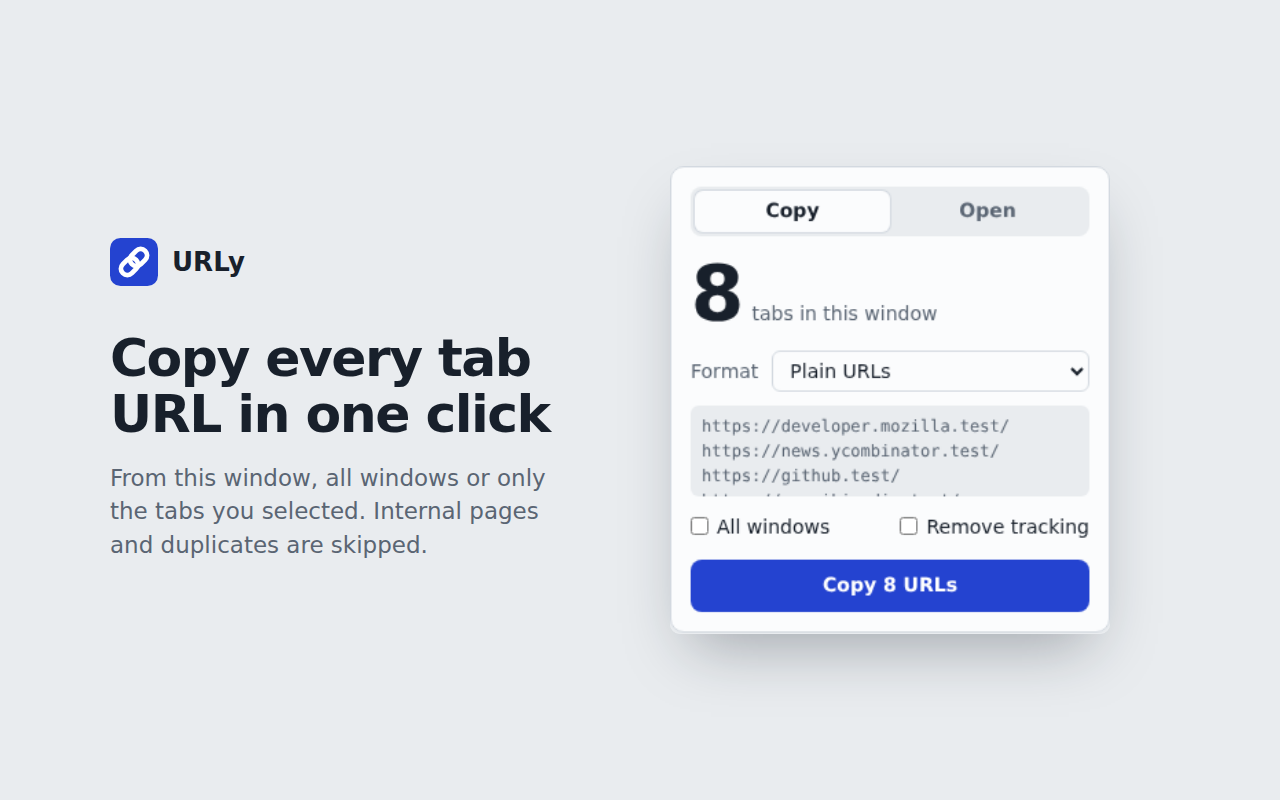
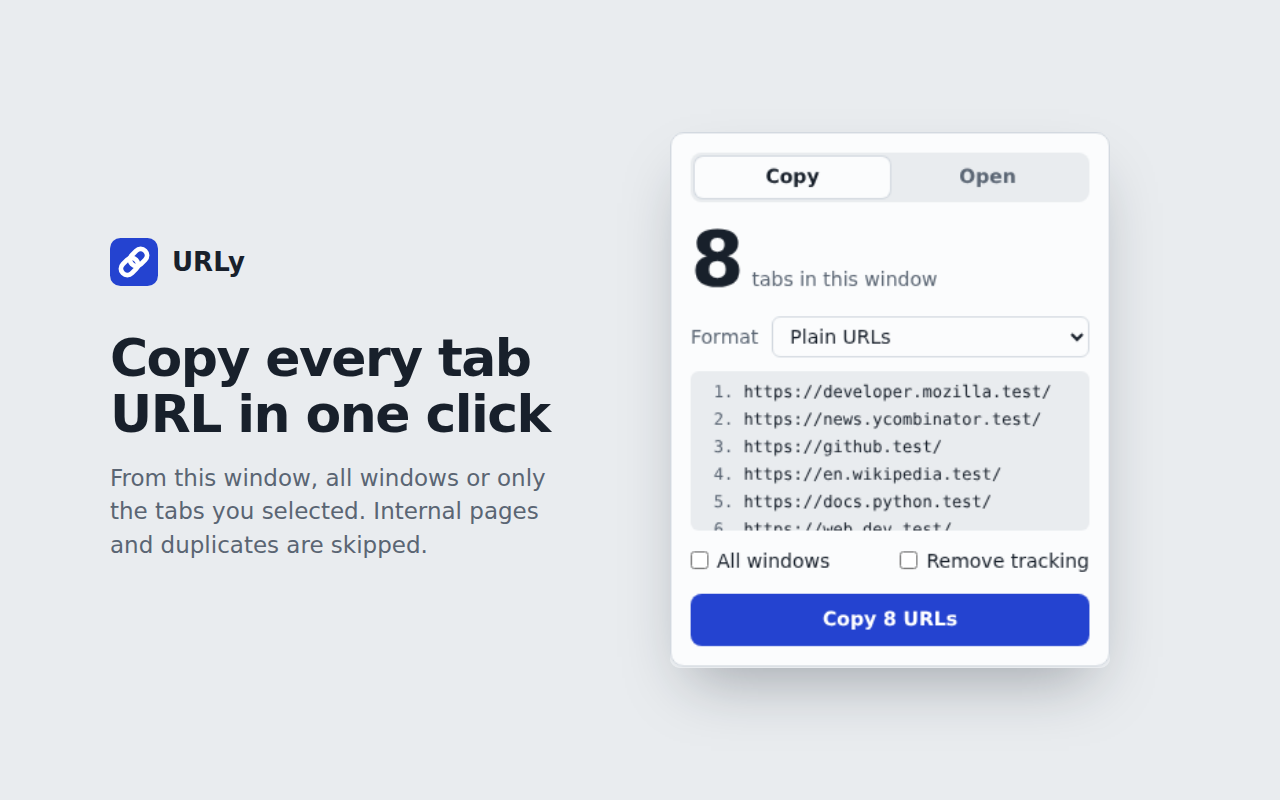
Number the copy preview per link and give it more room
The preview is now an ordered list with one entry per link, wraps long
URLs instead of scrolling sideways, is taller, and uses thin scrollbars.
JSON output now puts one link object per line.

diff --git a/src/lib/urls.ts b/src/lib/urls.ts
@@ -93,39 +93,54 @@ function fillTemplate(template: string, link: Link, index: number): string {
   );
 }
 
+// One string per link, so the popup can number them in its preview.
+export function formatEntries(
+  links: Link[],
+  format: CopyFormat,
+  template = DEFAULT_TEMPLATE,
+): string[] {
+  switch (format) {
+    case 'plain':
+      return links.map((link) => link.url);
+    case 'markdown':
+      return links.map(markdownLink);
+    case 'titled':
+      return links.map(({ title, url }) => `${title}\n${url}`);
+    case 'html':
+      return links.map(
+        ({ title, url }) =>
+          `<li><a href="${escapeHtml(url)}">${escapeHtml(title)}</a></li>`,
+      );
+    case 'csv':
+      return links.map(
+        ({ title, url }) => `${csvField(title)},${csvField(url)}`,
+      );
+    case 'json':
+      return links.map((link) => JSON.stringify(link));
+    case 'custom':
+      return links.map((link, index) => fillTemplate(template, link, index));
+  }
+}
+
 export function formatLinks(
   links: Link[],
   format: CopyFormat,
   template = DEFAULT_TEMPLATE,
 ): string {
   if (links.length === 0) return '';
+  const entries = formatEntries(links, format, template);
+  const indented = entries.map((entry) => `  ${entry}`);
   switch (format) {
-    case 'plain':
-      return links.map((link) => link.url).join('\n');
-    case 'markdown':
-      return links.map(markdownLink).join('\n');
     case 'titled':
-      return links.map(({ title, url }) => `${title}\n${url}`).join('\n\n');
+      return entries.join('\n\n');
     case 'html':
-      return [
-        '<ul>',
-        ...links.map(
-          ({ title, url }) =>
-            `  <li><a href="${escapeHtml(url)}">${escapeHtml(title)}</a></li>`,
-        ),
-        '</ul>',
-      ].join('\n');
+      return ['<ul>', ...indented, '</ul>'].join('\n');
     case 'csv':
-      return [
-        'title,url',
-        ...links.map(({ title, url }) => `${csvField(title)},${csvField(url)}`),
-      ].join('\n');
+      return ['title,url', ...entries].join('\n');
     case 'json':
-      return JSON.stringify(links, null, 2);
-    case 'custom':
-      return links
-        .map((link, index) => fillTemplate(template, link, index))
-        .join('\n');
+      return `[\n${indented.join(',\n')}\n]`;
+    default:
+      return entries.join('\n');
   }
 }
 

diff --git a/src/entrypoints/popup/main.ts b/src/entrypoints/popup/main.ts
@@ -8,7 +8,13 @@ import {
   type Scope,
   type Settings,
 } from '@/lib/copy';
-import { extractUrls, FORMATS, isCopyFormat } from '@/lib/urls';
+import {
+  copyableLinks,
+  extractUrls,
+  formatEntries,
+  FORMATS,
+  isCopyFormat,
+} from '@/lib/urls';
 
 type Mode = Settings['mode'];
 
@@ -33,7 +39,7 @@ const openCount = $('open-count');
 const openLabel = $('open-label');
 const paste = $<HTMLTextAreaElement>('paste');
 const openButton = $<HTMLButtonElement>('open');
-const preview = $('preview');
+const preview = $<HTMLOListElement>('preview');
 const status = $('status');
 const shortcut = $('shortcut');
 
@@ -47,6 +53,7 @@ const plural = (n: number, word: string) => `${word}${n === 1 ? '' : 's'}`;
 
 let settings: Settings;
 let tabs: Browser.tabs.Tab[] = [];
+let scope: Scope = 'window';
 let links: string[] = [];
 
 function setStatus(message: string) {
@@ -72,10 +79,22 @@ function setMode(mode: Mode, focus = false) {
 }
 
 function renderCopy() {
-  const { count, text } = buildClipboard(tabs, settings);
-  preview.textContent = text;
+  const entries = formatEntries(
+    copyableLinks(tabs, { clean: settings.clean }),
+    settings.format,
+    settings.template,
+  );
+  const count = entries.length;
+  preview.replaceChildren(
+    ...entries.map((entry) => {
+      const item = document.createElement('li');
+      item.textContent = entry;
+      return item;
+    }),
+  );
   preview.hidden = count === 0;
   copyCount.textContent = String(count);
+  copyLabel.textContent = `${plural(count, 'tab')} ${SCOPE_LABELS[scope]}`;
   copyButton.disabled = count === 0;
   copyButton.textContent =
     count === 0 ? 'No tabs to copy' : `Copy ${count} ${plural(count, 'URL')}`;
@@ -85,8 +104,7 @@ function renderCopy() {
 async function loadTabs() {
   const result = await queryTabs(settings.allWindows);
   tabs = result.tabs;
-  const { count } = buildClipboard(tabs, settings);
-  copyLabel.textContent = `${plural(count, 'tab')} ${SCOPE_LABELS[result.scope]}`;
+  scope = result.scope;
   renderCopy();
 }
 

diff --git a/src/entrypoints/popup/style.css b/src/entrypoints/popup/style.css
@@ -142,20 +142,44 @@ select,
 }
 
 .preview {
-  max-height: calc(3 * 1.5em + 12px);
+  /* About six wrapped lines; the popup stays under the 600px browser limit. */
+  max-height: 116px;
   margin: 0 0 12px;
-  padding: 6px 8px;
-  overflow: auto;
+  padding: 6px 8px 6px 0;
+  overflow-y: auto;
   overscroll-behavior: contain;
   border-radius: 6px;
   background: var(--paper);
-  color: var(--muted);
+  color: var(--ink);
   font:
     12px/1.5 ui-monospace,
     'Cascadia Mono',
     Menlo,
     monospace;
-  white-space: pre;
+  list-style: decimal;
+  list-style-position: outside;
+  padding-left: 3.2em;
+}
+
+.preview li {
+  white-space: pre-wrap;
+  tab-size: 2;
+  overflow-wrap: anywhere;
+}
+
+.preview li + li {
+  margin-top: 2px;
+}
+
+.preview li::marker {
+  color: var(--muted);
+}
+
+/* Thin, arrowless scrollbars instead of the chunky Windows default. */
+.preview,
+textarea {
+  scrollbar-width: thin;
+  scrollbar-color: var(--rule) transparent;
 }
 
 .options {

diff --git a/src/lib/urls.test.ts b/src/lib/urls.test.ts
@@ -2,7 +2,10 @@ import { describe, expect, it } from 'vitest';
 import {
   copyableLinks,
   extractUrls,
+  formatEntries,
   formatLinks,
+  FORMATS,
+  type CopyFormat,
   isCopyable,
   isCopyFormat,
   removeTracking,
@@ -124,8 +127,15 @@ describe('formatLinks', () => {
     );
   });
 
-  it('formats JSON', () => {
-    expect(JSON.parse(formatLinks(links, 'json'))).toEqual(links);
+  it('formats JSON with one link per line', () => {
+    const json = formatLinks(links, 'json');
+    expect(JSON.parse(json)).toEqual(links);
+    expect(json.split('\n')).toHaveLength(links.length + 2);
+  });
+
+  it('gives one numbered-preview entry per link for every format', () => {
+    for (const format of Object.keys(FORMATS) as CopyFormat[])
+      expect(formatEntries(links, format)).toHaveLength(links.length);
   });
 
   it('fills a custom template per link', () => {

diff --git a/e2e/popup.spec.ts b/e2e/popup.spec.ts
@@ -41,9 +41,12 @@ test('copies with a custom template', async ({ context, page, popupUrl }) => {
 
   await page.getByLabel('Format').selectOption({ label: 'Custom template' });
   await page.getByRole('textbox', { name: 'Template' }).fill('* {host}: {url}');
-  await expect(page.getByLabel('Preview of the copied text')).toHaveText(
-    '* one.test: https://one.test/a\n* two.test: https://two.test/b',
-  );
+  await expect(
+    page.getByLabel('Preview of the copied text').getByRole('listitem'),
+  ).toHaveText([
+    '* one.test: https://one.test/a',
+    '* two.test: https://two.test/b',
+  ]);
   await page.getByRole('button', { name: 'Copy 2 URLs' }).click();
   expect(await readClipboard(page)).toBe(
     '* one.test: https://one.test/a\n* two.test: https://two.test/b',

diff --git a/src/entrypoints/popup/index.html b/src/entrypoints/popup/index.html
@@ -53,13 +53,13 @@
             line
           </p>
         </div>
-        <pre
+        <ol
           class="preview"
           id="preview"
           tabindex="0"
           aria-label="Preview of the copied text"
           hidden
-        ></pre>
+        ></ol>
         <div class="options">
           <label class="check">
             <input type="checkbox" id="all-windows" />
